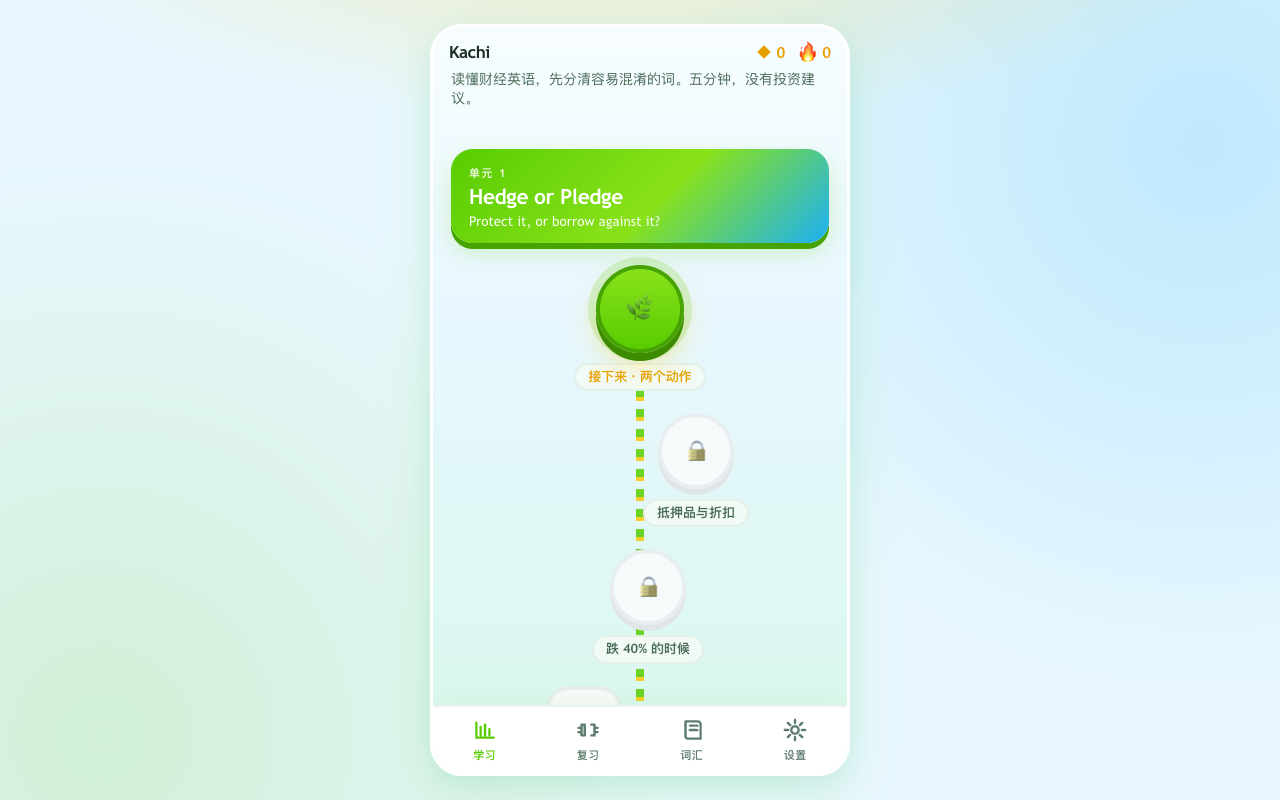
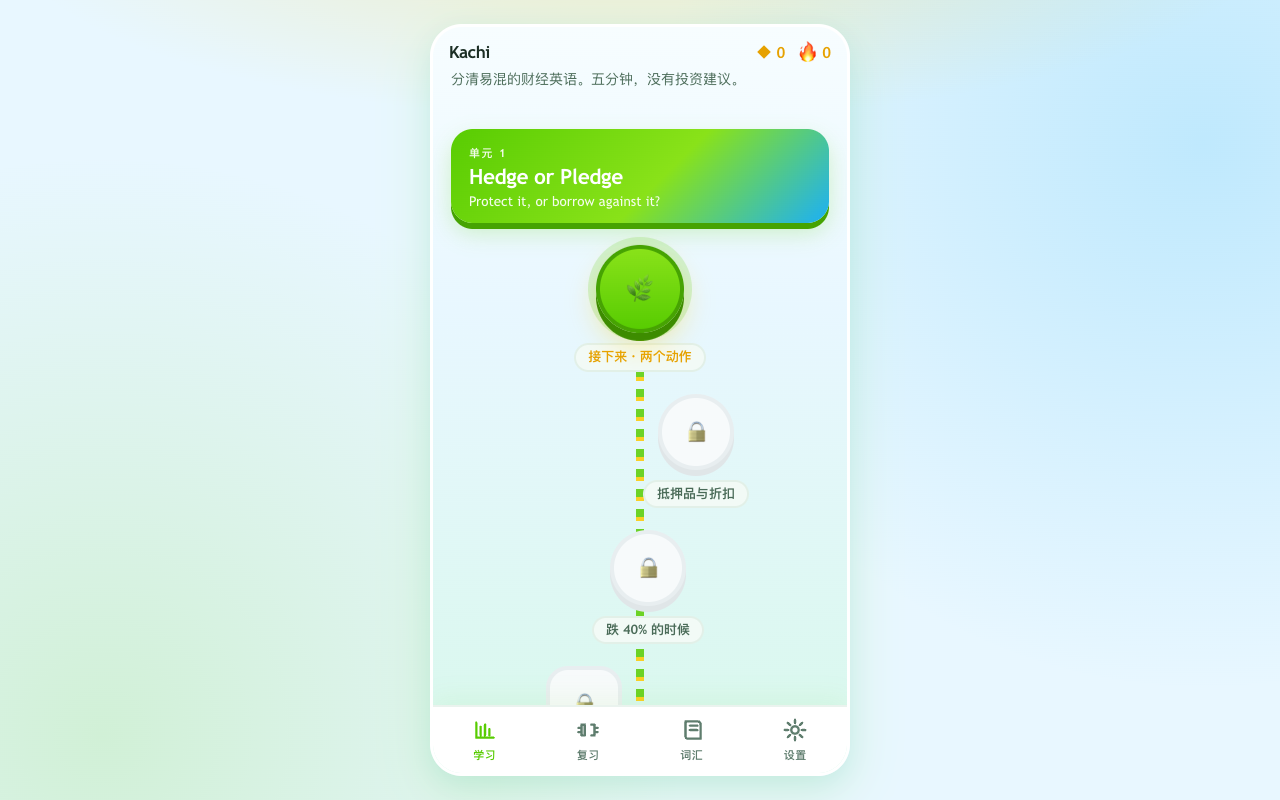
fix(web): tighten wrapping copy to single lines; balance the rest; style practice sub
User-reported: the practice home sub wrapped mid-word (复习不会解 / 锁路径)
at common widths — CJK breaks anywhere, so long multi-sentence subs read
badly.

- Copy tightened in both languages so the one-liners are one lines at 390px:
  practice no-miss (还没有错题。先练第 1 单元。), miss count, home tagline,
  fail copy, settings copy. English equivalents shortened to match.
- .prac-hero .sub had no styling at all (the prototype only defined
  .hero .sub) — now shares the muted bold look.
- text-wrap: balance on .hero/.prac-hero subs and the tagline so anything
  that still wraps at narrow widths breaks into even lines.

e2e 87/87; screenshots refreshed.

diff --git a/apps/web/src/ui.ts b/apps/web/src/ui.ts
@@ -114,7 +114,7 @@ export const UI: Record<Lang, UiText> = {
       settings: { label: "设置", aria: "设置" }
     },
     home: {
-      tagline: "读懂财经英语，先分清容易混淆的词。五分钟，没有投资建议。",
+      tagline: "分清易混的财经英语。五分钟，没有投资建议。",
       unit: (id) => `单元 ${id}`,
       upNext: "接下来 · ",
       missedNote: (n) => `有 ${n} 个术语等着复习——它们在「复习」页。`,
@@ -123,8 +123,8 @@ export const UI: Record<Lang, UiText> = {
     practice: {
       brand: "今日复习",
       title: "练掉混淆。",
-      missCopy: (n) => `你有 ${n} 个术语最近答错过。复习不会解锁路径。`,
-      noMissCopy: "还没有错题。先用第 1 单元练手。复习不会解锁路径。",
+      missCopy: (n) => `有 ${n} 个术语等着复习。复习不会解锁路径。`,
+      noMissCopy: "还没有错题。先练第 1 单元。",
       start: (n) => `开始 ${n} 题复习`
     },
     glossary: {
@@ -141,7 +141,7 @@ export const UI: Record<Lang, UiText> = {
     settings: {
       brand: "设置",
       title: "数据归你。",
-      copy: "学习记录只保存在这台设备的浏览器里：没有账号、没有广告、没有第三方分析。可随时导出成文件，或导入到其他设备。",
+      copy: "学习记录只存在这台设备的浏览器里。没有账号、广告或第三方分析。可随时导出或导入。",
       exportBtn: "导出学习数据",
       importBtn: "导入学习数据",
       contentNote: "课程以 Git 内容包发布；涉及税务、法规与金融工具的条目会标注适用范围与复核状态。",
@@ -188,7 +188,7 @@ export const UI: Record<Lang, UiText> = {
     },
     fail: {
       title: "爱心用完了。",
-      copy: "这一课的混淆坑了你。重试——爱心立刻补满，不用等。",
+      copy: "这一课的混淆坑了你。重试，爱心立刻补满。",
       retryLesson: "重试本课",
       retryPractice: "再来一轮",
       backToPath: "回到路径"
@@ -205,7 +205,7 @@ export const UI: Record<Lang, UiText> = {
       settings: { label: "Settings", aria: "Settings" }
     },
     home: {
-      tagline: "Read finance in English by telling the mix-ups apart. Five minutes. No advice.",
+      tagline: "Tell the mix-ups apart. Five minutes. No advice.",
       unit: (id) => `Unit ${id}`,
       upNext: "Up next · ",
       missedNote: (n) => `${n} term${n === 1 ? "" : "s"} waiting to be reviewed — they live in Practice.`,
@@ -214,8 +214,8 @@ export const UI: Record<Lang, UiText> = {
     practice: {
       brand: "Practice",
       title: "Drill the mix-up.",
-      missCopy: (n) => `You have ${n} term${n === 1 ? "" : "s"} with a recent miss. Practice does not unlock the path.`,
-      noMissCopy: "No misses yet. We'll use Unit 1 until you have mix-ups of your own. Practice does not unlock the path.",
+      missCopy: (n) => `${n} term${n === 1 ? "" : "s"} to review. Practice never unlocks the path.`,
+      noMissCopy: "No misses yet — we'll drill Unit 1.",
       start: (n) => `Start a ${n}-prompt round`
     },
     glossary: {
@@ -232,7 +232,7 @@ export const UI: Record<Lang, UiText> = {
     settings: {
       brand: "Settings",
       title: "Your data stays yours.",
-      copy: "Your learning record lives in this browser only: no account, no ads, no third-party analytics. Export it to a file any time, or import it on another device.",
+      copy: "Your record lives in this browser. No account, no ads, no analytics. Export or import any time.",
       exportBtn: "Export learning data",
       importBtn: "Import learning data",
       contentNote: "Courses ship as Git content packs; entries touching tax, regulation, and instruments carry scope and review status.",
@@ -279,7 +279,7 @@ export const UI: Record<Lang, UiText> = {
     },
     fail: {
       title: "Out of hearts.",
-      copy: "That mix-up got you. Retry — hearts refill now. No wait.",
+      copy: "That mix-up got you. Retry — hearts refill now.",
       retryLesson: "Retry lesson",
       retryPractice: "Retry practice",
       backToPath: "Back to the path"

diff --git a/apps/web/src/styles.css b/apps/web/src/styles.css
@@ -622,6 +622,8 @@ input { font: inherit; color: inherit; }
   color: var(--green-dark);
 }
 .hero .sub { color: var(--ink-soft); margin-bottom: 18px; font-weight: 700; }
+.prac-hero .sub { color: var(--ink-soft); margin: 6px 0 18px; font-weight: 700; }
+.hero .sub, .prac-hero .sub, .tagline { text-wrap: balance; }
 .xp-card {
   background: #fff;
   border: 3px solid #FFF1B8;
